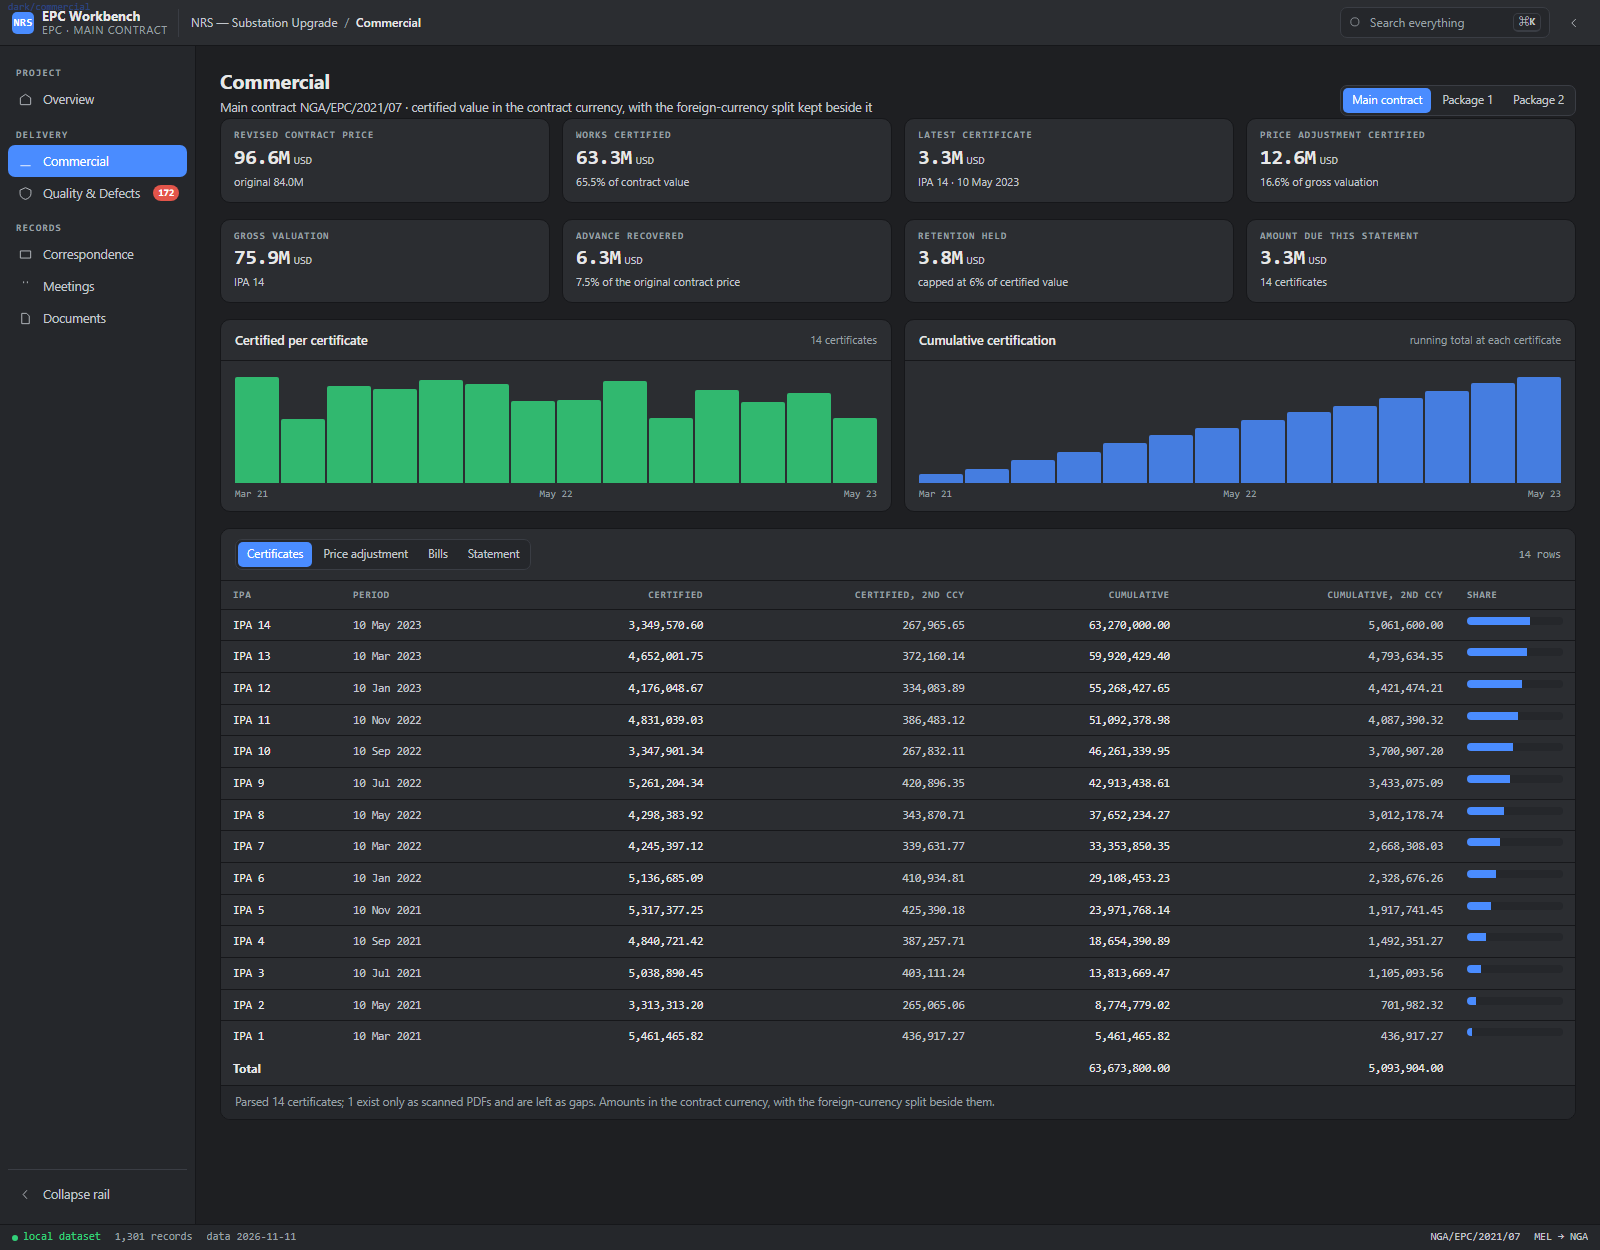
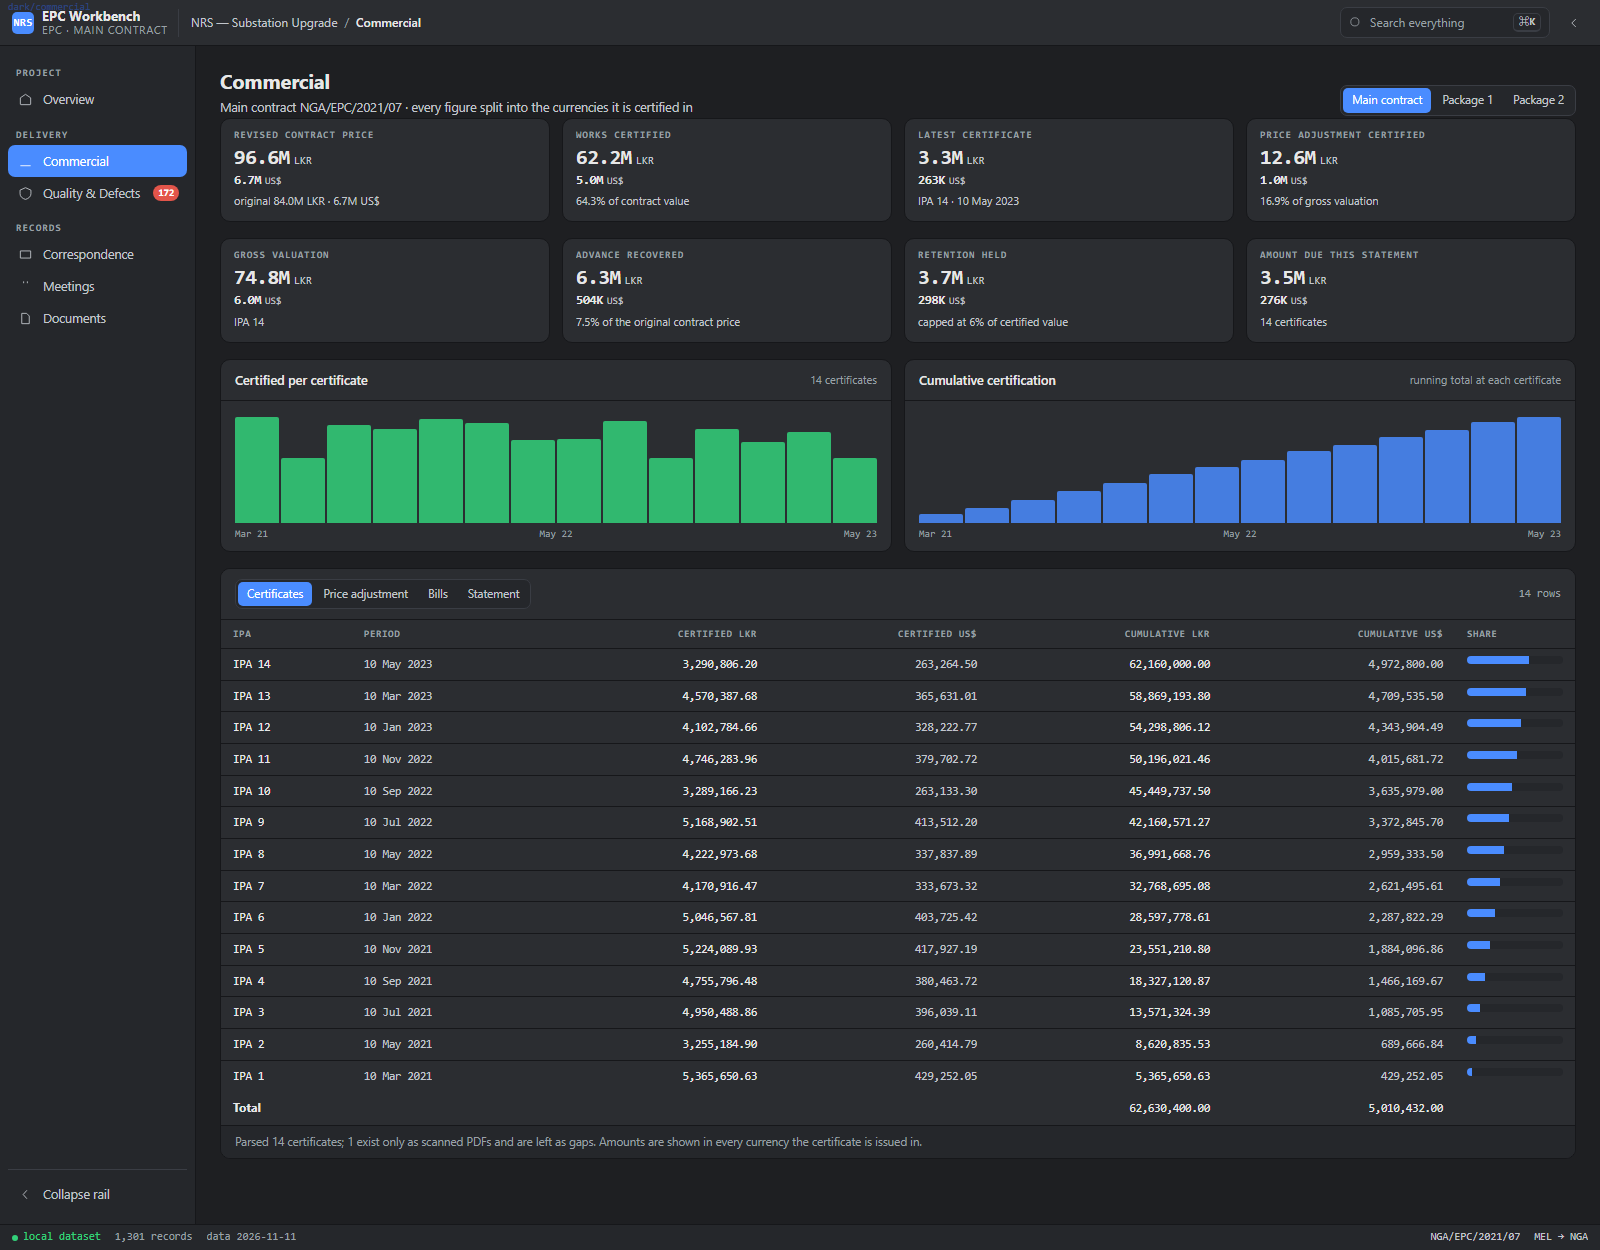
Document the currency-slice model
The Overview and the Commercial page now print every main-contract figure in
each currency it is certified in, so the configuration has to name those
currencies rather than leave the template to guess.

- project.currencies is a table of code/label/key/primary; an absent list
  degrades to one primary currency derived from project.currency.
- The example config prices the invented project in LKR with a USD slice, and
  the MAIN sum is quoted as 84,000,000 LKR plus 6,720,000 US$ so the register
  tile, the money band and the bill rows add up to the same price.
- README explains why the slices are additive and how a third currency is
  added without touching a template.
- The screenshots in docs/img were re-rendered from the demo dataset.

diff --git a/tools/epc_config.py b/tools/epc_config.py
@@ -89,8 +89,12 @@ def normalise(raw):
     # more than one, and the slices add up to the price rather than convert into
     # each other, so both names have to travel with the data instead of being
     # assumed from the primary one alone.
+    # The list belongs to the project — that is where the documentation puts it —
+    # but a top-level list is accepted too so a hand-written file cannot silently
+    # lose the second currency.
+    declared = project.get("currencies") or raw.get("currencies") or []
     currencies = []
-    for i, c in enumerate(raw.get("currencies") or []):
+    for i, c in enumerate(declared):
         if isinstance(c, str):
             c = {"code": c}
         code = (c.get("code") or "").upper()

diff --git a/docs/CONFIGURATION.md b/docs/CONFIGURATION.md
@@ -28,7 +28,27 @@ config out of version control: `.gitignore` already excludes `workbench.config.j
 | `mark` | Two to four letters for the topbar glyph and the favicon-ish square |
 | `site` | Site description line |
 | `standpoint` | Whose books are being read, e.g. the main contractor |
-| `currency` | ISO code or symbol printed on every money tile |
+| `currency` | ISO code or symbol of the primary currency |
+| `currencies` | Optional list of the currencies the contract is priced in; see below |
+
+### `project.currencies`
+
+A contract is often priced in more than one currency: imported plant in dollars, site
+works in the local currency. The slices are additive, so the workbench prints all of
+them rather than one converted total. Each entry tells it how a currency is spelled and
+which field suffix carries its amount.
+
+| Key | Meaning |
+| --- | --- |
+| `code` | Currency code, matched against `amounts[].code` |
+| `label` | What the page prints, e.g. `US$` |
+| `key` | Field suffix used in the payload (`Usd` gives `curUsd`, `grossCumUsd`, …) |
+| `primary` | The one whose figure leads a tile and carries the progress percentages |
+
+When the list is absent the workbench derives a single primary currency from
+`project.currency`, which is the right answer for a single-currency project. Adding a
+third currency later means one more entry here and one more set of suffixed fields in the
+payload — no template change.
 
 ## `parties`
 
@@ -62,7 +82,7 @@ subcontract package. The first `kind: "main"` entry is the default scope; every
 | `counterparty` | | Party `id` on the other side of the contract |
 | `currency` | | Defaults to `project.currency` |
 | `value` | | Contract sum |
-| `valueUsd` | | Secondary-currency sum, if the contract is measured in two currencies |
+| `valueUsd` | | Second-currency slice of the sum, when the contract is measured in two |
 | `valueRevised` | | Revised sum after a variation; the register quotes this when present |
 | `originalValue` | | Original sum, printed beside the revised one |
 | `advancePct` / `retentionPct` | | Percentages shown in the certificate bands |

diff --git a/README.md b/README.md
@@ -108,6 +108,33 @@ and contract numbers all arrive inside the payload (`taxonomy`), which is why th
 bundle serves any project: `contractLabel(data, id)` and `seriesLabel(data, key)` look
 those names up rather than printing a literal.
 
+### Money is a list of currency slices
+
+An EPC contract is often priced in more than one currency — imported plant in dollars,
+site works in the local currency — and the bill rows carry one amount per currency. The
+two are additive, not conversions of each other, so a figure printed in one currency
+understates the contract by the other. The payload therefore declares the currencies it
+uses and writes the slices out explicitly:
+
+```json
+"currencies": [
+  {"code": "LKR", "label": "LKR", "key": "Lkr", "primary": true},
+  {"code": "USD", "label": "US$", "key": "Usd", "primary": false}
+],
+"mainContract": {"contract": {"amounts": [{"code": "LKR", "amount": 96600000.0},
+                                          {"code": "USD", "amount": 6720000.0}],
+                              "amountsOrig": [ ... ]}},
+"contracts": [{"id": "MAIN", "amounts": [ ... ], "amountsOrig": [ ... ]}]
+```
+
+Every scalar money field is written once per currency with the currency's `key` as the
+suffix — `grossCumLkr` / `grossCumUsd`, `curLkr` / `curUsd`, `contractLkr` / `contractUsd`.
+`rowSlices(row, 'grossCum', data)` reads them back as a list in the declared order, and the
+client prints every slice it finds: a money tile keeps the first currency large and stacks
+the rest beneath it, and the certificate, bills and statement tables build one column per
+currency. Adding a third currency means adding an entry to `currencies` and another set of
+suffixed fields — no template change, and no figure silently dropped.
+
 ## Layout
 
 ```
